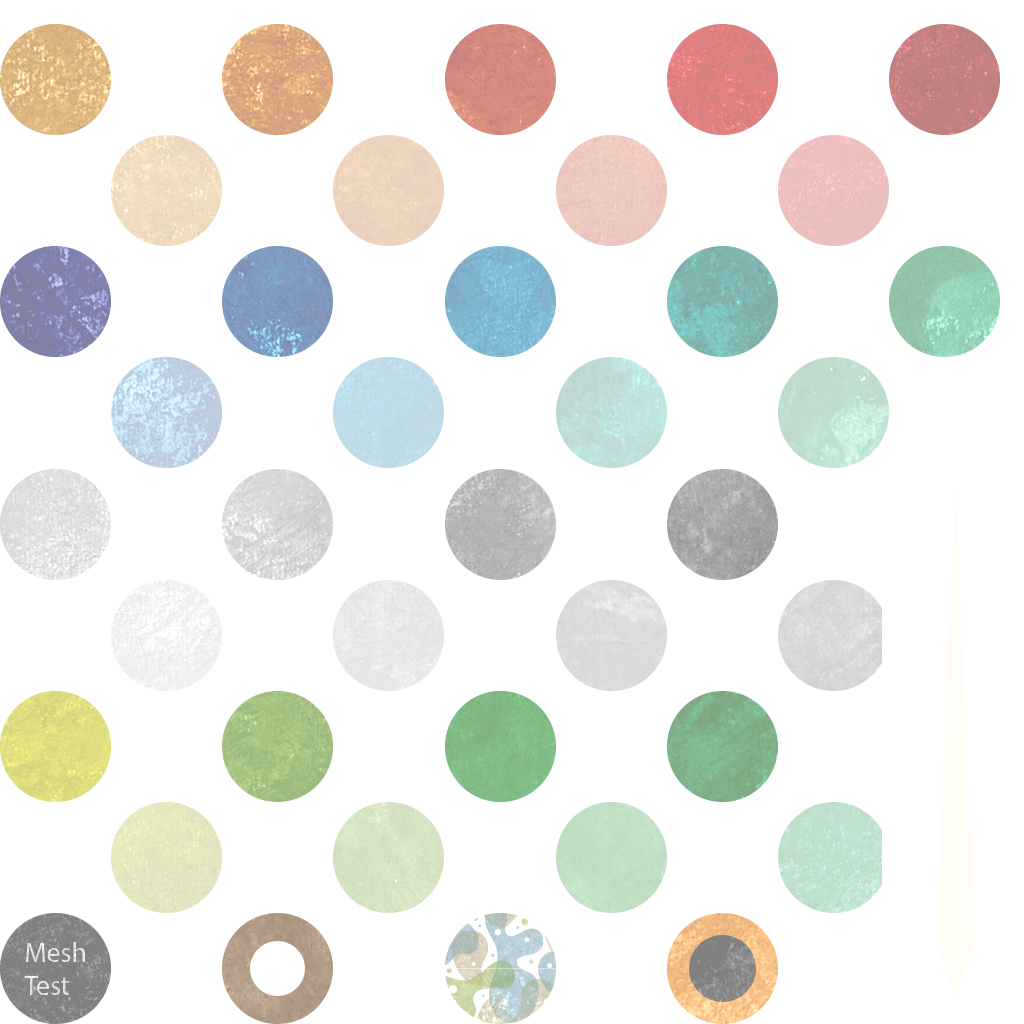
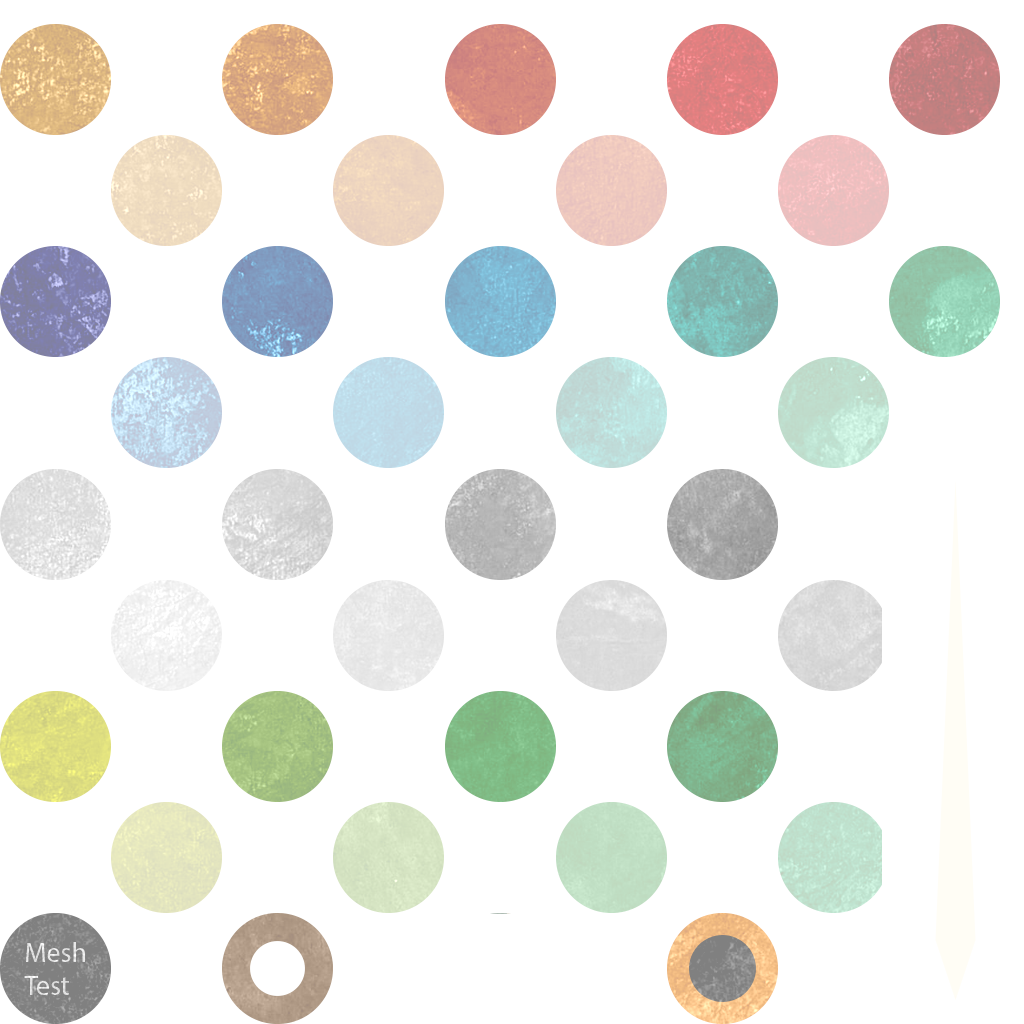
Grid.cs display of oomph now within radius, instead of as "thick skin" outside radius.
Bug fixes.

Changed region(s): [[0.4375, 0.875, 0.5625, 1.0]]

diff --git a/Assets/Bots.cs b/Assets/Bots.cs
@@ -234,11 +234,15 @@ public class Bots
 
 	public static void initialize(int gameNumber){
 		switch (gameNumber){
-		case 1:snarkInit(1);
+		case 1:
+			snarkInit(1);
 			break;
-		case 2:testbedInit(1);
+		case 2:
+			testbedInit(1);
 			break;
-		default: snarkInit(1);
+		default: 
+			snarkInit(1);
+			break;
 		}
 	}
 
@@ -399,36 +403,65 @@ public class Bots
 		// Bub.Node pushVegNode(Vector2 position, float radius = 1.0f, string clan="")
 		float small = normalBubRadius/8; float normal = normalBubRadius; float large = normalBubRadius*8;
 
-		pushVegNode(new Vector2(0,0),small);
+		pushVegNode(new Vector2(17.5f,0),small);
 		pushVegNode(new Vector2(20,0),normal);
 		pushVegNode(new Vector2(40,0),large);
 
 		for (int i = Engine.nodes.Count - 3;i<Engine.nodes.Count;i++)Engine.nodes[i].oomph = 0;
 
-		pushVegNode(new Vector2(0,20),small);
+		pushVegNode(new Vector2(17.5f,20),small);
 		pushVegNode(new Vector2(20,20),normal);
 		pushVegNode(new Vector2(40,20),large);
 
 		for (int i = Engine.nodes.Count - 3;i<Engine.nodes.Count;i++)Engine.nodes[i].oomph = Engine.nodes[i].minBurden;
 
-		pushVegNode(new Vector2(0,40),small);
+		pushVegNode(new Vector2(17.5f,40),small);
 		pushVegNode(new Vector2(20,40),normal);
 		pushVegNode(new Vector2(40,40),large);
 
 		for (int i = Engine.nodes.Count - 3;i<Engine.nodes.Count;i++)Engine.nodes[i].oomph = Engine.nodes[i].maxOomph/2;
 
-		pushVegNode(new Vector2(0,60),small);
+		pushVegNode(new Vector2(17.5f,60),small);
 		pushVegNode(new Vector2(20,60),normal);
 		pushVegNode(new Vector2(40,60),large);
 
 		for (int i = Engine.nodes.Count - 3;i<Engine.nodes.Count;i++)Engine.nodes[i].oomph = Engine.nodes[i].maxOomph;
 
+		/////animal
+
+		pushVegNode(new Vector2(70+17.5f,0),small).setDna(CScommon.vegetableBit,false);
+		pushVegNode(new Vector2(70+20,0),normal).setDna(CScommon.vegetableBit,false);
+		pushVegNode(new Vector2(70+40,0),large).setDna(CScommon.vegetableBit,false);
+		
+		for (int i = Engine.nodes.Count - 3;i<Engine.nodes.Count;i++)Engine.nodes[i].oomph = 0;
+		
+		pushVegNode(new Vector2(70+17.5f,20),small).setDna(CScommon.vegetableBit,false);
+		pushVegNode(new Vector2(70+20,20),normal).setDna(CScommon.vegetableBit,false);
+		pushVegNode(new Vector2(70+40,20),large).setDna(CScommon.vegetableBit,false);
+		
+		for (int i = Engine.nodes.Count - 3;i<Engine.nodes.Count;i++)Engine.nodes[i].oomph = Engine.nodes[i].minBurden;
+		
+		pushVegNode(new Vector2(70+17.5f,40),small).setDna(CScommon.vegetableBit,false);
+		pushVegNode(new Vector2(70+20,40),normal).setDna(CScommon.vegetableBit,false);
+		pushVegNode(new Vector2(70+40,40),large).setDna(CScommon.vegetableBit,false);
+		
+		for (int i = Engine.nodes.Count - 3;i<Engine.nodes.Count;i++)Engine.nodes[i].oomph = Engine.nodes[i].maxOomph/2;
+		
+		pushVegNode(new Vector2(70+17.5f,60),small).setDna(CScommon.vegetableBit,false);
+		pushVegNode(new Vector2(70+20,60),normal).setDna(CScommon.vegetableBit,false);
+		pushVegNode(new Vector2(70+40,60),large).setDna(CScommon.vegetableBit,false);
+		
+		for (int i = Engine.nodes.Count - 3;i<Engine.nodes.Count;i++)Engine.nodes[i].oomph = Engine.nodes[i].maxOomph;
+
+		//mountable
+
+
 		Bub.Node head;
-		head = pushVegNode(new Vector2(-25,0),small).setDna(CScommon.vegetableBit, false);
+		head = pushVegNode(new Vector2(-25,17.5f),small).setDna(CScommon.vegetableBit, false);
 		Rules.installHunterPCRule(head);
-		head = pushVegNode(new Vector2(-25,0),normal).setDna(CScommon.vegetableBit, false);
+		head = pushVegNode(new Vector2(-25,20),normal).setDna(CScommon.vegetableBit, false);
 		Rules.installHunterPCRule(head);
-		head = pushVegNode(new Vector2(-25,0),large).setDna(CScommon.vegetableBit, false);
+		head = pushVegNode(new Vector2(-25,40),large).setDna(CScommon.vegetableBit, false);
 		Rules.installHunterPCRule(head);
 
 		for (int i = Engine.nodes.Count - 3;i<Engine.nodes.Count;i++)Engine.nodes[i].oomph = Engine.nodes[i].maxOomph/3;

diff --git a/Assets/Grid.cs b/Assets/Grid.cs
@@ -42,7 +42,7 @@ public class Grid {
 	{	float basis = 55.5f/uvSquareSize;
 		setAtlas (0, basis, 1, 17); //animal
 		setAtlas (1, basis, 17, 13); //vegetable
-		setAtlas (2, basis, 3, 3); //aura
+		setAtlas (2, basis, 9, 1); //aura was 3,3
 
 		//link
 		atlasUVPositions [3, 0] = new Vector2 (955.5f/uvSquareSize, 520.0f/uvSquareSize);
@@ -96,9 +96,9 @@ public class Grid {
 			anode = Engine.nodes[i];
 
 			//r = 0.1f* Mathf.Pow (anode.oomph,1/3.0f)*anode.radius; 
-
+			float sqrtMax = Mathf.Sqrt (CScommon.maxOomph (anode.radius, 0L));
 			// thickness of aura "skin" denotes fraction of your maxOomph you are carrying
-			diameter = 2*anode.radius*(1.0f + anode.oomph/CScommon.maxOomph (anode.radius, 0L)); //calibrate by non-veg maxOomph
+			diameter = 2*anode.radius*Mathf.Sqrt(anode.oomph)/sqrtMax; //calibrate by non-veg maxOomph
 
 			vix = makeTriangle(
 				new Vector3 (anode.x+x0*diameter, anode.y+y0*diameter),

diff --git a/Assets/bubbleServer.cs b/Assets/bubbleServer.cs
@@ -166,9 +166,11 @@ public class bubbleServer : MonoBehaviour {
 		//the one thing I DON'T do is disconnect everyone, they can stay connected for next game.
 		//Their connectionId and name are still valid. Their node assignments are off.
 		foreach (int cId in connectionIdPlayerInfo.Keys) { 
-			nodeIdPlayerInfo.Remove(connectionIdPlayerInfo[cId].nodeId);
 			connectionIdPlayerInfo[cId].nodeId = -1; //disassociate from nodeId
 		}
+
+		//remove NPC and PC registrations
+		nodeIdPlayerInfo.Clear();
 
 		GC.Collect(); //while I'm at it...
 
